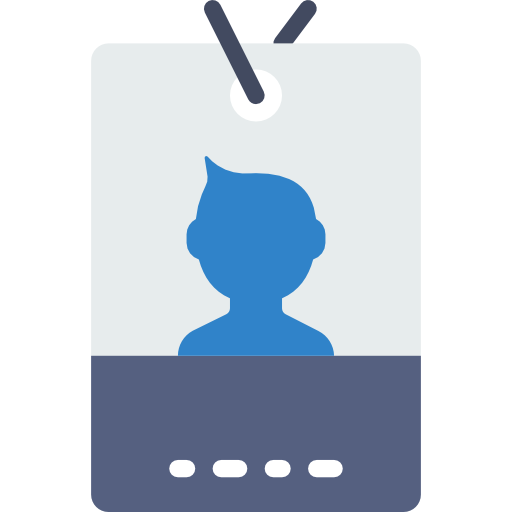
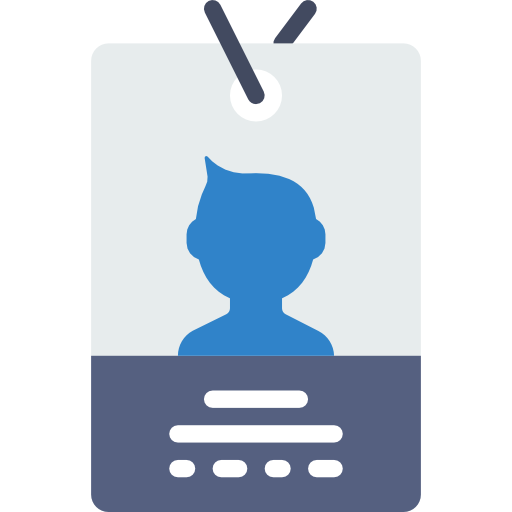
cambiar icono y botones de clase login

Changed region(s): [[0.3125, 0.75, 0.6875, 0.875]]

diff --git a/CPI/src/vistas/login.java b/CPI/src/vistas/login.java
@@ -8,7 +8,6 @@ package vistas;
 import java.awt.Image;
 import java.awt.Toolkit;
 import javax.swing.JOptionPane;
-
 /**
  *
  * @author Anahi
@@ -34,77 +33,112 @@ public class login extends javax.swing.JFrame {
     private void initComponents() {
 
         jButton1 = new javax.swing.JButton();
-        jLabelIcon = new javax.swing.JLabel();
         jLabel1 = new javax.swing.JLabel();
         jLabel2 = new javax.swing.JLabel();
-        txtUsuario = new javax.swing.JTextField();
         jPassword = new javax.swing.JPasswordField();
         jButtonSesion = new javax.swing.JButton();
-        jLabelfonde = new javax.swing.JLabel();
+        jLabel3 = new javax.swing.JLabel();
+        txtUsuario = new javax.swing.JTextField();
 
         setDefaultCloseOperation(javax.swing.WindowConstants.EXIT_ON_CLOSE);
         setIconImage(getIconImage());
         setUndecorated(true);
-        getContentPane().setLayout(new org.netbeans.lib.awtextra.AbsoluteLayout());
 
-        jButton1.setBackground(new java.awt.Color(0, 0, 51));
+        jButton1.setBackground(new java.awt.Color(255, 51, 51));
         jButton1.setFont(new java.awt.Font("Tahoma", 1, 14)); // NOI18N
-        jButton1.setForeground(new java.awt.Color(102, 102, 102));
+        jButton1.setForeground(new java.awt.Color(255, 255, 255));
         jButton1.setText("Salir");
         jButton1.addActionListener(new java.awt.event.ActionListener() {
             public void actionPerformed(java.awt.event.ActionEvent evt) {
                 jButton1ActionPerformed(evt);
             }
         });
-        getContentPane().add(jButton1, new org.netbeans.lib.awtextra.AbsoluteConstraints(400, 10, -1, -1));
-        getContentPane().add(jLabelIcon, new org.netbeans.lib.awtextra.AbsoluteConstraints(110, 60, -1, -1));
 
         jLabel1.setFont(new java.awt.Font("Tahoma", 1, 18)); // NOI18N
         jLabel1.setText("Usuario");
-        getContentPane().add(jLabel1, new org.netbeans.lib.awtextra.AbsoluteConstraints(100, 390, -1, -1));
 
         jLabel2.setFont(new java.awt.Font("Tahoma", 1, 18)); // NOI18N
         jLabel2.setText("Contraseña");
-        getContentPane().add(jLabel2, new org.netbeans.lib.awtextra.AbsoluteConstraints(90, 420, 110, -1));
 
-        txtUsuario.setBackground(new java.awt.Color(0, 0, 51));
-        txtUsuario.setFont(new java.awt.Font("Tahoma", 1, 14)); // NOI18N
-        txtUsuario.setForeground(new java.awt.Color(255, 255, 255));
-        getContentPane().add(txtUsuario, new org.netbeans.lib.awtextra.AbsoluteConstraints(200, 420, 160, -1));
-
-        jPassword.setBackground(new java.awt.Color(0, 0, 51));
+        jPassword.setBackground(new java.awt.Color(245, 245, 245));
         jPassword.setFont(new java.awt.Font("Tahoma", 1, 14)); // NOI18N
-        jPassword.setForeground(new java.awt.Color(255, 255, 255));
+        jPassword.setForeground(new java.awt.Color(51, 51, 51));
         jPassword.addActionListener(new java.awt.event.ActionListener() {
             public void actionPerformed(java.awt.event.ActionEvent evt) {
                 jPasswordActionPerformed(evt);
             }
         });
-        getContentPane().add(jPassword, new org.netbeans.lib.awtextra.AbsoluteConstraints(200, 390, 160, -1));
 
-        jButtonSesion.setBackground(new java.awt.Color(0, 0, 51));
+        jButtonSesion.setBackground(new java.awt.Color(63, 81, 181));
         jButtonSesion.setFont(new java.awt.Font("Tahoma", 1, 12)); // NOI18N
-        jButtonSesion.setForeground(new java.awt.Color(102, 102, 102));
+        jButtonSesion.setForeground(new java.awt.Color(255, 255, 255));
         jButtonSesion.setText("Iniciar Sesión ");
         jButtonSesion.addActionListener(new java.awt.event.ActionListener() {
             public void actionPerformed(java.awt.event.ActionEvent evt) {
                 jButtonSesionActionPerformed(evt);
             }
         });
-        getContentPane().add(jButtonSesion, new org.netbeans.lib.awtextra.AbsoluteConstraints(180, 480, -1, -1));
 
-        jLabelfonde.setBackground(new java.awt.Color(42, 42, 42));
-        jLabelfonde.setIcon(new javax.swing.ImageIcon(getClass().getResource("/images/login.png"))); // NOI18N
-        getContentPane().add(jLabelfonde, new org.netbeans.lib.awtextra.AbsoluteConstraints(-20, -30, 520, 570));
+        jLabel3.setBackground(new java.awt.Color(63, 81, 181));
+        jLabel3.setForeground(new java.awt.Color(255, 255, 255));
+        jLabel3.setIcon(new javax.swing.ImageIcon(getClass().getResource("/images/login.png"))); // NOI18N
+
+        txtUsuario.setBackground(new java.awt.Color(245, 245, 245));
+        txtUsuario.setForeground(new java.awt.Color(51, 51, 51));
+        txtUsuario.addActionListener(new java.awt.event.ActionListener() {
+            public void actionPerformed(java.awt.event.ActionEvent evt) {
+                txtUsuarioActionPerformed(evt);
+            }
+        });
+
+        javax.swing.GroupLayout layout = new javax.swing.GroupLayout(getContentPane());
+        getContentPane().setLayout(layout);
+        layout.setHorizontalGroup(
+            layout.createParallelGroup(javax.swing.GroupLayout.Alignment.LEADING)
+            .addGroup(layout.createSequentialGroup()
+                .addGroup(layout.createParallelGroup(javax.swing.GroupLayout.Alignment.LEADING)
+                    .addGroup(layout.createSequentialGroup()
+                        .addContainerGap(javax.swing.GroupLayout.DEFAULT_SIZE, Short.MAX_VALUE)
+                        .addComponent(jButtonSesion)
+                        .addGap(95, 95, 95)
+                        .addComponent(jButton1))
+                    .addGroup(layout.createSequentialGroup()
+                        .addGroup(layout.createParallelGroup(javax.swing.GroupLayout.Alignment.LEADING)
+                            .addGroup(layout.createSequentialGroup()
+                                .addGap(51, 51, 51)
+                                .addGroup(layout.createParallelGroup(javax.swing.GroupLayout.Alignment.TRAILING)
+                                    .addComponent(jLabel2, javax.swing.GroupLayout.PREFERRED_SIZE, 110, javax.swing.GroupLayout.PREFERRED_SIZE)
+                                    .addComponent(jLabel1))
+                                .addGap(42, 42, 42)
+                                .addGroup(layout.createParallelGroup(javax.swing.GroupLayout.Alignment.LEADING, false)
+                                    .addComponent(jPassword)
+                                    .addComponent(txtUsuario, javax.swing.GroupLayout.DEFAULT_SIZE, 160, Short.MAX_VALUE)))
+                            .addComponent(jLabel3, javax.swing.GroupLayout.PREFERRED_SIZE, 444, javax.swing.GroupLayout.PREFERRED_SIZE))
+                        .addGap(0, 47, Short.MAX_VALUE)))
+                .addContainerGap())
+        );
+        layout.setVerticalGroup(
+            layout.createParallelGroup(javax.swing.GroupLayout.Alignment.LEADING)
+            .addGroup(layout.createSequentialGroup()
+                .addComponent(jLabel3, javax.swing.GroupLayout.PREFERRED_SIZE, 510, javax.swing.GroupLayout.PREFERRED_SIZE)
+                .addGap(18, 18, 18)
+                .addGroup(layout.createParallelGroup(javax.swing.GroupLayout.Alignment.LEADING)
+                    .addGroup(layout.createSequentialGroup()
+                        .addComponent(jLabel1)
+                        .addPreferredGap(javax.swing.LayoutStyle.ComponentPlacement.RELATED)
+                        .addGroup(layout.createParallelGroup(javax.swing.GroupLayout.Alignment.TRAILING)
+                            .addComponent(jLabel2)
+                            .addComponent(jPassword, javax.swing.GroupLayout.PREFERRED_SIZE, javax.swing.GroupLayout.DEFAULT_SIZE, javax.swing.GroupLayout.PREFERRED_SIZE))
+                        .addGap(22, 22, 22)
+                        .addGroup(layout.createParallelGroup(javax.swing.GroupLayout.Alignment.BASELINE)
+                            .addComponent(jButtonSesion)
+                            .addComponent(jButton1)))
+                    .addComponent(txtUsuario, javax.swing.GroupLayout.PREFERRED_SIZE, javax.swing.GroupLayout.DEFAULT_SIZE, javax.swing.GroupLayout.PREFERRED_SIZE))
+                .addContainerGap())
+        );
 
         pack();
     }// </editor-fold>//GEN-END:initComponents
-
-    private void jButton1ActionPerformed(java.awt.event.ActionEvent evt) {//GEN-FIRST:event_jButton1ActionPerformed
-
-        System.exit(0);
-// TODO add your handling code here:
-    }//GEN-LAST:event_jButton1ActionPerformed
 
     private void jPasswordActionPerformed(java.awt.event.ActionEvent evt) {//GEN-FIRST:event_jPasswordActionPerformed
         // TODO add your handling code here:
@@ -112,21 +146,33 @@ public class login extends javax.swing.JFrame {
 
     private void jButtonSesionActionPerformed(java.awt.event.ActionEvent evt) {//GEN-FIRST:event_jButtonSesionActionPerformed
         
-        String Usuario = "Anahi";
-        String Contraseña = "1234";
+        String Usuario = "admin";
+        String Contraseña = "admin";
         
         String Pass = new String(jPassword.getPassword());
         
         if(txtUsuario.getText().equalsIgnoreCase(Usuario) && Pass.equalsIgnoreCase(Contraseña)){
         
-           MenuPrincipal MP = new MenuPrincipal();
+            MenuPrincipal MP = new MenuPrincipal();
+            MP.setTitle("Gestion CPI");
             MP.setVisible(true);
             dispose();   
+            MP.setLocationRelativeTo(null);
         }
         else{
             JOptionPane.showMessageDialog(this, "Usuario/Contraseña Incorrecta");}
             
     }//GEN-LAST:event_jButtonSesionActionPerformed
+
+    private void jButton1ActionPerformed(java.awt.event.ActionEvent evt) {//GEN-FIRST:event_jButton1ActionPerformed
+
+        System.exit(0);
+        // TODO add your handling code here:
+    }//GEN-LAST:event_jButton1ActionPerformed
+
+    private void txtUsuarioActionPerformed(java.awt.event.ActionEvent evt) {//GEN-FIRST:event_txtUsuarioActionPerformed
+        // TODO add your handling code here:
+    }//GEN-LAST:event_txtUsuarioActionPerformed
 
     /**
      * @param args the command line arguments
@@ -171,8 +217,7 @@ public class login extends javax.swing.JFrame {
     private javax.swing.JButton jButtonSesion;
     private javax.swing.JLabel jLabel1;
     private javax.swing.JLabel jLabel2;
-    private javax.swing.JLabel jLabelIcon;
-    private javax.swing.JLabel jLabelfonde;
+    private javax.swing.JLabel jLabel3;
     private javax.swing.JPasswordField jPassword;
     private javax.swing.JTextField txtUsuario;
     // End of variables declaration//GEN-END:variables
